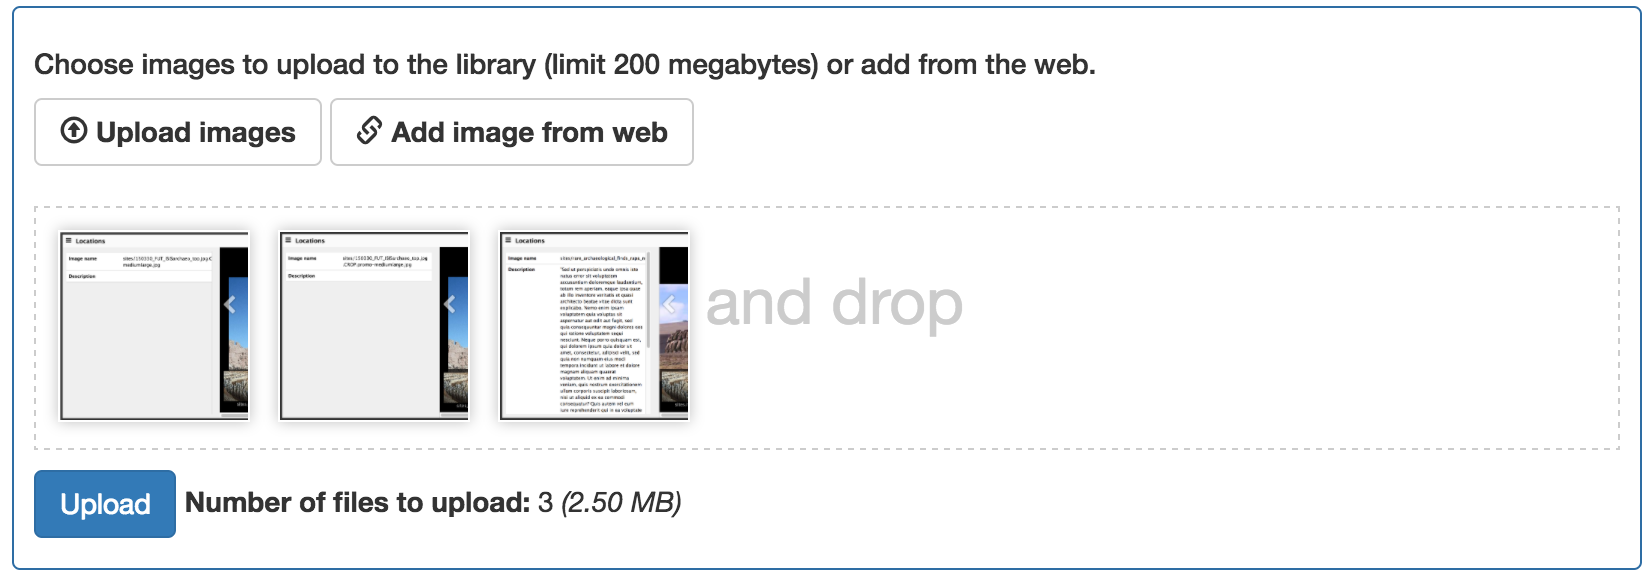
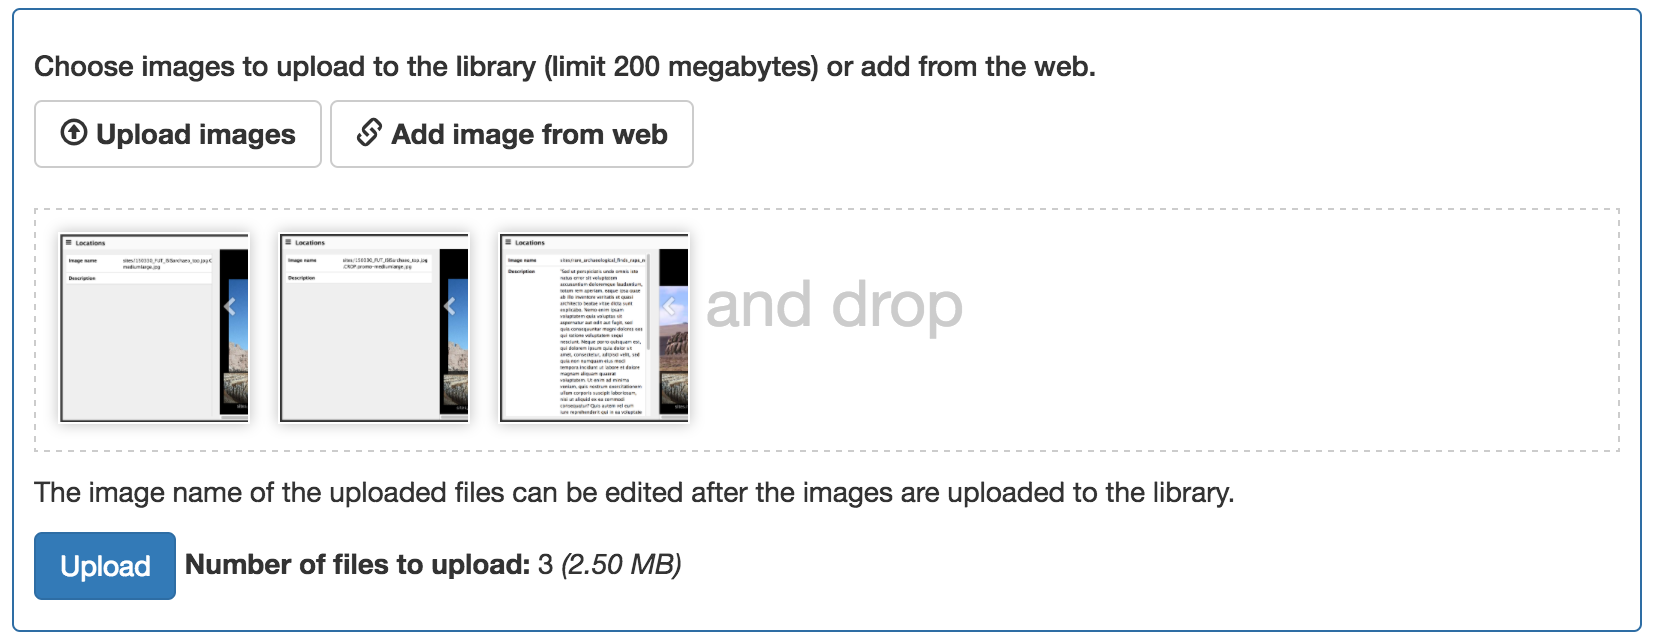
ATGU-581_MediaManagerUploadImageCaption - screen capture and UI code of proposed interface

Changed region(s): [[0.0, 0.0, 1.0, 0.9965], [0.0, 0.0623, 0.6792, 0.3114]]

diff --git a/ATGU-581_MediaManagerUploadImageCaption/index.html b/ATGU-581_MediaManagerUploadImageCaption/index.html
@@ -4,6 +4,8 @@
     <ul class="files files-queued">
         ...
     </ul>
+<!--UI comment - adding a reference to the uploaded image names-->
+    <p>The image name of the uploaded files can be edited after the images are uploaded to the library.</p>
     <input type="button" class="btn btn-primary" value="Upload" ng-disabled="wc.Droplet.interface.isUploading() || wc.filesToUpload == 0" ng-click="wc.Droplet.uploadFiles()">
     <label>Number of files to upload:</label> 3 <!-- ngIf: wc.fileUploadSize > 0 --><i ng-if="wc.fileUploadSize > 0" class="ng-binding ng-scope">(2.50 MB)</i><!-- end ngIf: wc.fileUploadSize > 0 -->
 </droplet>
